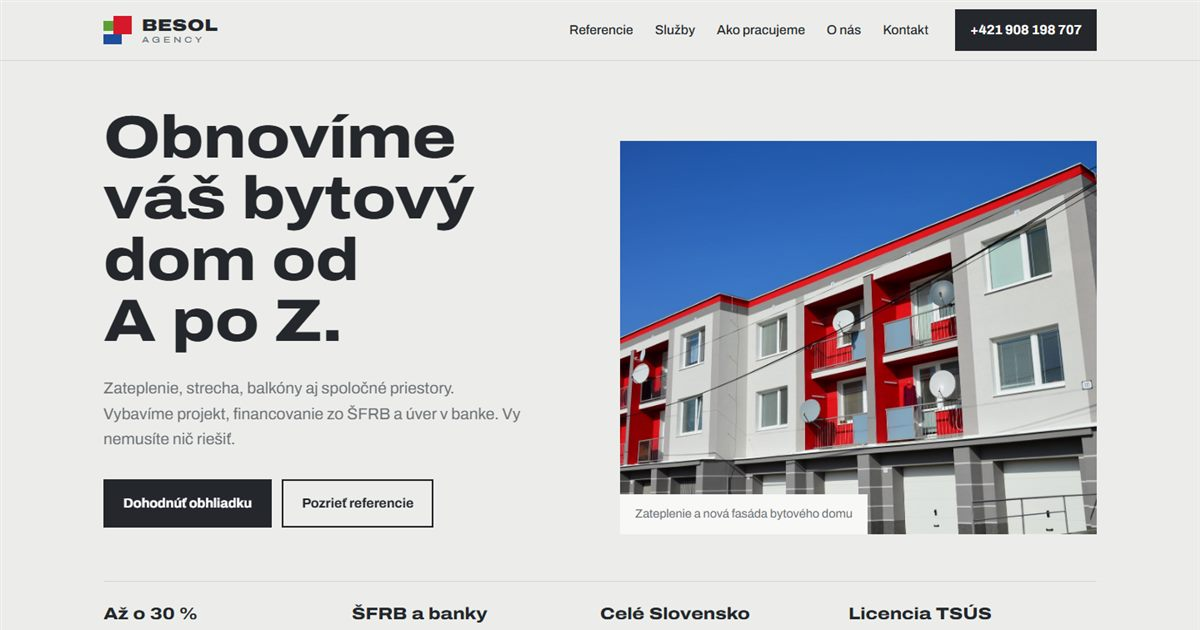
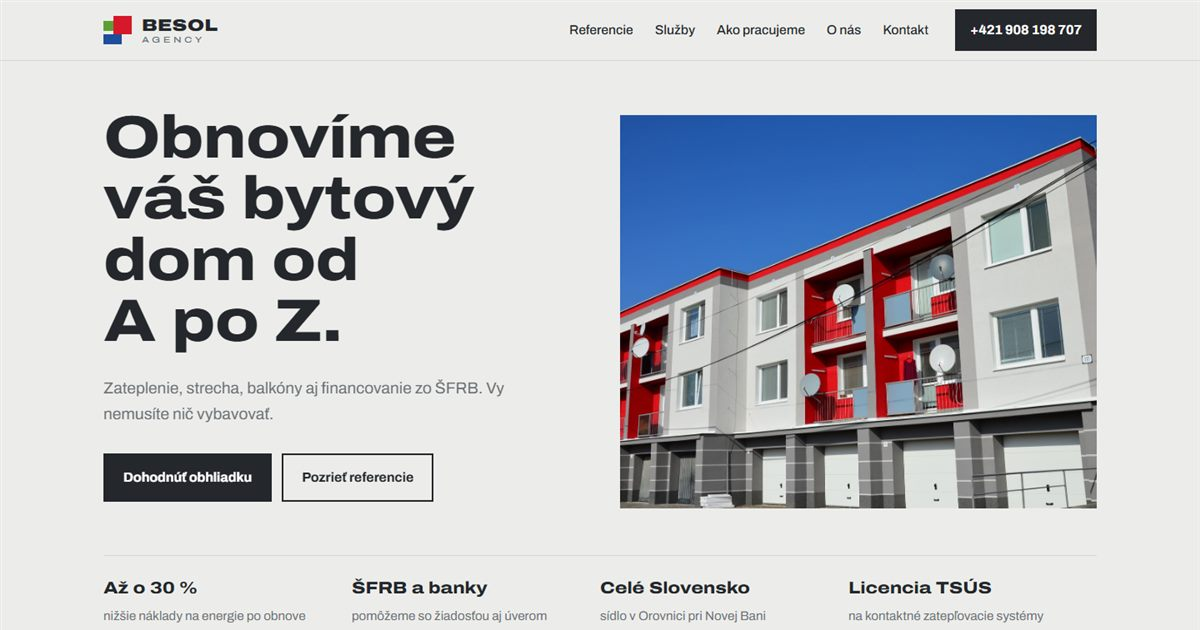
Úvodná stránka: skrátené popisy návrhov, nové náhľady

diff --git a/index.html b/index.html
@@ -30,7 +30,7 @@ header p{max-width:62ch;color:var(--muted);font-size:1.12rem;margin:0}
 .card .shot{aspect-ratio:12/7;overflow:hidden;border-bottom:1px solid var(--line)}
 .card img{width:100%;height:100%;object-fit:cover;object-position:top;display:block;transition:transform .5s}
 .card .t{padding:24px 24px 28px;display:flex;flex-direction:column;flex:1}
-.card h2{font-variation-settings:"wdth" 118;font-weight:800;font-size:1.6rem;margin:0 0 20px}
+.card h2{font-variation-settings:"wdth" 118;font-weight:800;font-size:1.6rem;margin:0 0 8px}
 .card .k{color:var(--muted);margin:0 0 16px;font-weight:500}
 .card p{margin:0 0 20px;font-size:.98rem}
 .card ul{margin:0 0 24px;padding-left:18px;font-size:.94rem;color:var(--muted)}
@@ -50,7 +50,7 @@ p{text-wrap:pretty}
 <header class="wrap">
   <div class="mark" aria-hidden="true"><i style="background:var(--red)"></i><i style="background:var(--green)"></i><i style="background:var(--blue)"></i></div>
   <h1>Tri návrhy nového webu BESOL AGENCY</h1>
-  <p>Každý návrh je klikateľná ukážka celej úvodnej stránky s vašimi textami, fotkami realizácií a kontaktmi. Vyskúšajte ich aj na mobile. Medzi návrhmi sa dá prepínať lištou dole na stránke.</p>
+  <p>Klikateľné ukážky s vašimi textami a fotkami. Vyskúšajte ich aj na mobile, prepínať sa dá lištou na stránke.</p>
 </header>
 
 <main class="wrap">
@@ -59,6 +59,7 @@ p{text-wrap:pretty}
       <div class="shot"><img src="assets/previews/a.jpg" alt="Náhľad návrhu A"></div>
       <div class="t">
         <h2>A: Fasáda</h2>
+        <p>Svetlý a pokojný. Referencie sú ako vzorkovník farieb fasád.</p>
         <span class="go">Otvoriť návrh A</span>
       </div>
     </a>
@@ -66,6 +67,7 @@ p{text-wrap:pretty}
       <div class="shot"><img src="assets/previews/b.jpg" alt="Náhľad návrhu B"></div>
       <div class="t">
         <h2>B: Termo</h2>
+        <p>Tmavý a moderný. Interaktívny termovízny dom ukáže, kde uniká teplo.</p>
         <span class="go">Otvoriť návrh B</span>
       </div>
     </a>
@@ -73,6 +75,7 @@ p{text-wrap:pretty}
       <div class="shot"><img src="assets/previews/c.jpg" alt="Náhľad návrhu C"></div>
       <div class="t">
         <h2>C: Lešenie</h2>
+        <p>Dlaždicový layout s bočnou navigáciou, požičovňou a filtrom referencií.</p>
         <span class="go">Otvoriť návrh C</span>
       </div>
     </a>
@@ -81,14 +84,11 @@ p{text-wrap:pretty}
   <div class="notes">
     <div>
       <h3>Čo sú tieto návrhy</h3>
-      <p>Ide o ukážky vzhľadu, nie hotový web. Kontaktný formulár zatiaľ nič neodosiela a podstránky (detail referencie, certifikáty, obchodné podmienky) doplníme pre vybraný návrh.</p>
-      <p>Texty a fotky sú prevzaté z besol.sk. Prvky z rôznych návrhov sa dajú kombinovať.</p>
+      <p>Ukážky vzhľadu s textami a fotkami z besol.sk. Formulár zatiaľ neodosiela a podstránky doplníme pre vybraný návrh. Prvky z návrhov sa dajú kombinovať.</p>
     </div>
     <div>
       <h3>Čo od vás potrebujeme</h3>
-      <p>Ktorý návrh sa vám páči najviac a čo by ste na ňom zmenili.</p>
-      <p>Logo BESOL AGENCY, ak už máte nové, a fotky z novších realizácií vo vyššom rozlíšení.</p>
-      <p>Či sa mení aj obchodné meno firmy, alebo zostáva BESOL, s. r. o.</p>
+      <p>Ktorý návrh sa vám páči a čo zmeniť, nové logo a novšie fotky, ak ich máte, a či sa mení aj obchodné meno BESOL, s. r. o.</p>
     </div>
   </div>
 </main>
